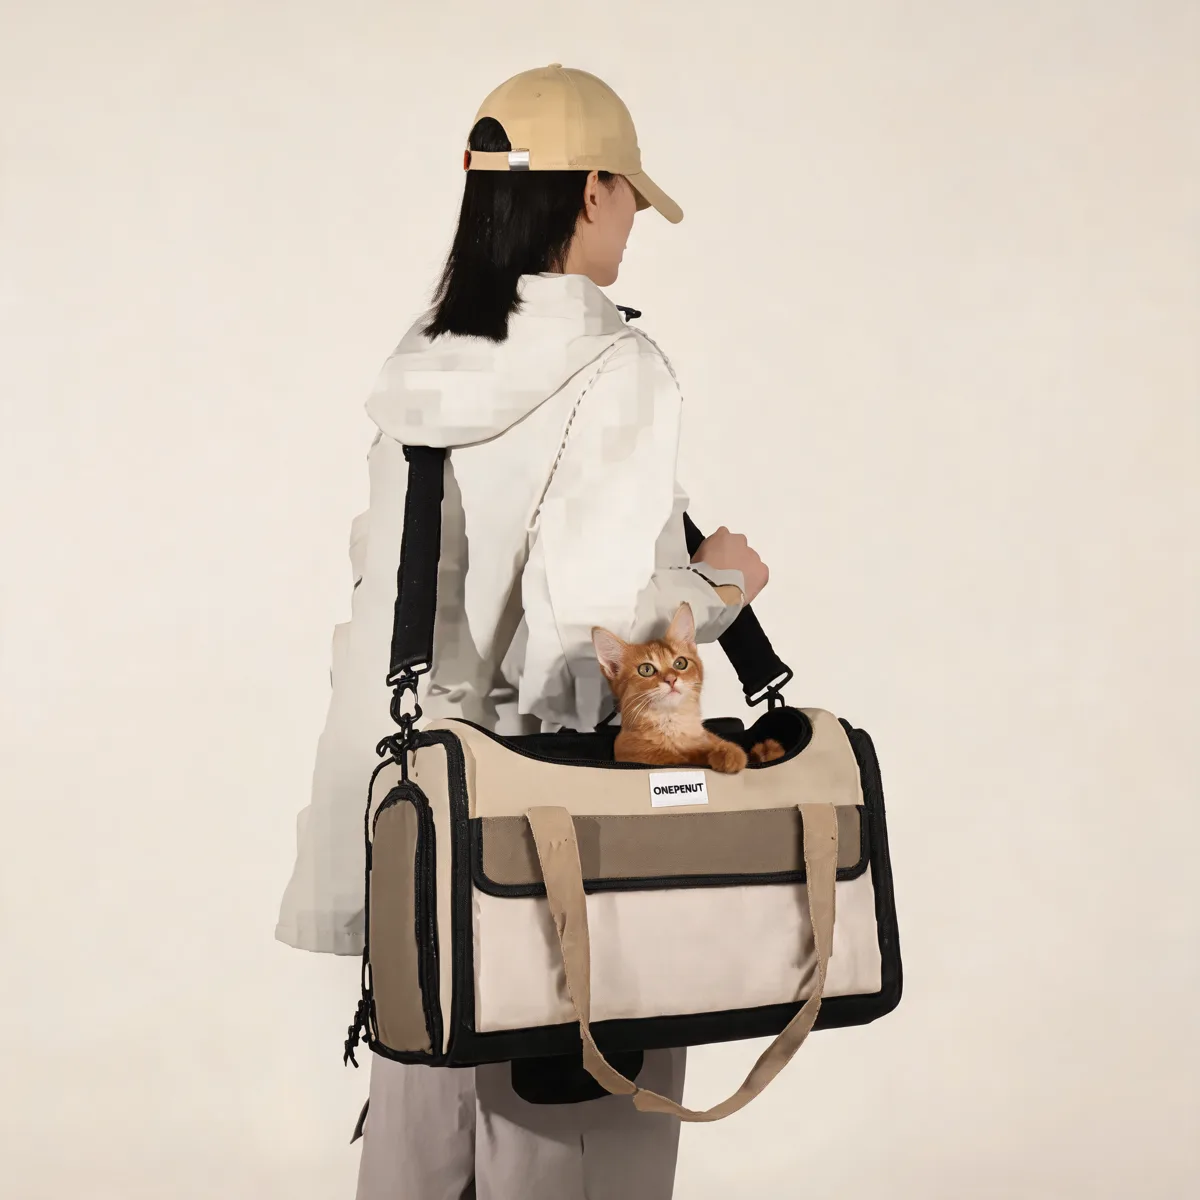
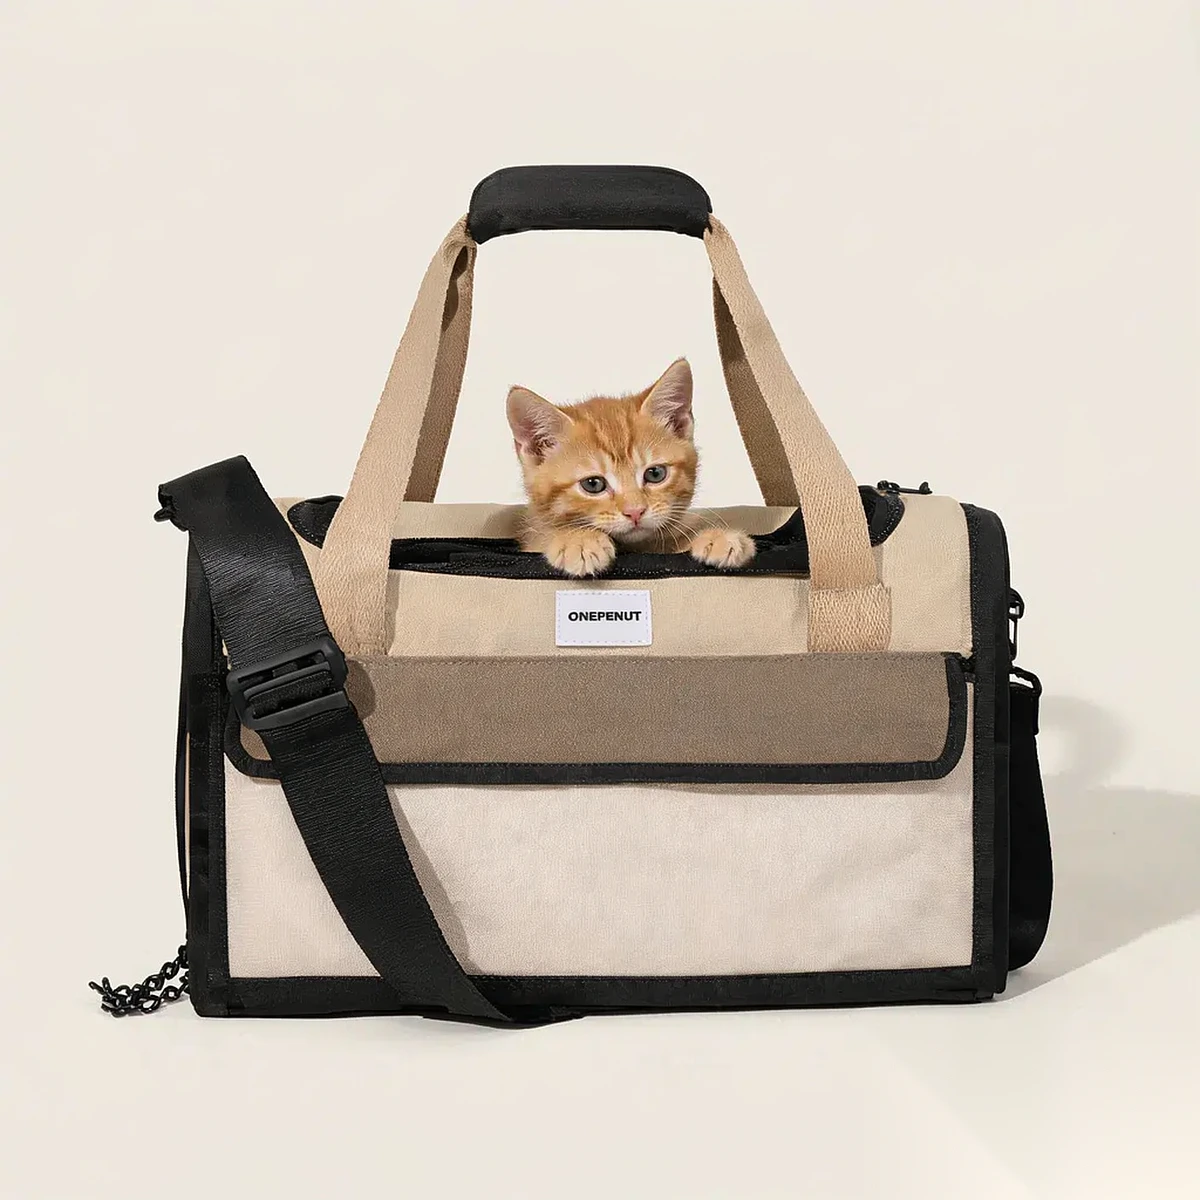
fix(products): 替换 airline-pet-tote-travel-bag 模糊主图
原主图在白色外套/背景区域烤入了块状霉斑：用 cv2 量化站内实际可见区
（4:3 object-cover 中心裁切）的平均 |Laplacian|，该图仅 32.7，而同批
正常主图普遍 60+，确认是原图自身的伪影，并非压缩或 CDN 所致。

滤波（双边/保边/NLMeans）只能淡化斑点、无法复原拉链等原生细节，
故改以站内清晰实拍图作参考重新生成主图，裁掉 AI 水印后转 webp 替换，
并把新主图排到 gallery 首位（避免与原产品图相邻）。

替换后可见区锐度 72.7（原 32.7）。

diff --git a/src/content/products/airline-pet-tote-travel-bag.md b/src/content/products/airline-pet-tote-travel-bag.md
@@ -16,27 +16,47 @@ keywords:
 gallery:
   - "/images/products/airline-pet-tote-travel-bag-1.webp"
   - "/images/products/airline-pet-tote-travel-bag-2.webp"
-  - "/images/products/airline-pet-tote-travel-bag-3.webp"
   - "/images/products/airline-pet-tote-travel-bag-4.webp"
+  - "/images/products/airline-pet-tote-travel-bag-3.webp"
   - "/images/products/airline-pet-tote-travel-bag-5.webp"
 ---
 
 ## Product facts
 
 - **Collection**: Carrier Bags & Backpacks
-- **SKU**: OP015057
-- **Customisation**: fabric, colour, sizing, logo, hardware and packaging can be built to your brand
-- **Sampling**: a sample is produced and approved before bulk production begins
+- **Model**: OP015057
+- **Materials**: Nylon
+- **Sizes**: Small/Large
+- **Recommended for**: pets up to 7 kg
+- **Customisation**: fabric, colour, sizing, logo, hardware and packaging
 - **Order type**: wholesale, OEM and ODM
+
+## Specification
+
+| Size | Colour | Dimensions | Materials | Recommended for | Net weight | Gross weight | Packaging | Notes |
+| --- | --- | --- | --- | --- | --- | --- | --- | --- |
+| Small | Chestnut Brown | 35 × 28 × 24 cm | Nylon | pets up to 6 kg | 1340 g | 1560 g | Cardboard box 42 × 38 × 6 cm | domestic airline cabin |
+| Large | — | 43 × 28 × 25 cm | Nylon | pets up to 7 kg | 1440 g | 1860 g | Cardboard box 52 × 42 × 6 cm | international airline cabin |
+
+## Key features
+
+- Reinforced base board with shock-absorbing padding under the cushion
+- Folds flat between trips so it stores in a cupboard rather than a garage
+- Oversized mesh window for airflow and forward visibility
+- Two cabin sizes — check your airline before fixing a size
 
 ## Sizing and fit
 
-Carrier sizing is the decision that makes or breaks a model. Our travel carriers follow common in-cabin dimensions, but airline rules differ by carrier and route, so confirm your target airline before fixing a size. A measuring guide is supplied with every range.
+Sizing runs across Small, Large. External dimensions are 35 × 28 × 24 cm and 43 × 28 × 25 cm. Net weight starts at 1340 g. Recommended for pets up to 7 kg.
+
+## Materials and packing
+
+Body materials: Nylon. Net and gross weights are listed per size so carton planning and freight estimates can be done before sampling.
 
 ## Typical use
 
-The range covers cabin travel, car journeys, daily errands and longer outdoor trips. Shoulder, crossbody, backpack and canopy-tent formats sit alongside each other, so a single line can serve several sales channels.
+Made for cabin travel, car journeys, daily errands and longer outdoor trips. Supplied in Chestnut Brown. Packed as Cardboard box 42 × 38 × 6 cm; Cardboard box 52 × 42 × 6 cm.
 
 ## Wholesale and OEM
 
-Every model can be produced to your own specification: fabric, colour, sizing, logo, hardware and packaging. A sample is produced and approved before bulk production begins, and export documentation is handled end to end. Exact terms depend on the model, so confirm them with us before you plan an order.
+Airline Pet Tote Travel Bag can be produced to your own specification — fabric, colour, sizing, logo, hardware and packaging. A sample is produced and approved before bulk production begins, and export documentation is handled end to end. Exact terms depend on the model, so confirm them with us before you plan an order.
